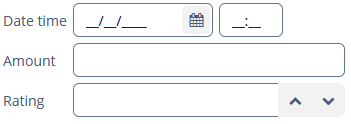
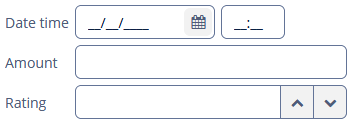
Composite components #256 add the link button to Sampler, improve the CSS style

diff --git a/content/modules/backoffice-ui/examples/ex1/src/main/themes/helium-ext/helium-ext.scss b/content/modules/backoffice-ui/examples/ex1/src/main/themes/helium-ext/helium-ext.scss
@@ -17,6 +17,7 @@
     .stepper-btn {
       width: $v-unit-size;
       min-width: $v-unit-size;
+      border: 1px solid var(--border-color);
     }
   }
   // end::stepper-field[]
